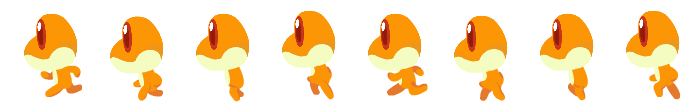
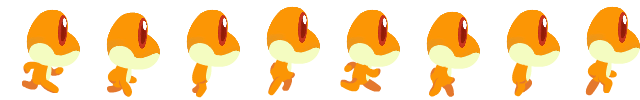
reset animation

diff --git a/js/collision.js b/js/collision.js
@@ -17,10 +17,10 @@ var Collision =  (function(){
 	}
 
 	var rect2circle = function(rect, circle){
-		if(rect.x + rect.w < circle.x) return false;
-		if(rect.x > circle.x + circle.r) return false;
-		if(rect.y + rect.h < circle.y) return false;
-		if(rect.y > circle.y + circle.r) return false;
+		if(rect.x + rect.w < circle.x - circle.r) return false;
+		if(rect.x 		   > circle.x + circle.r) return false;
+		if(rect.y + rect.h < circle.y - circle.r) return false;
+		if(rect.y          > circle.y + circle.r) return false;
 
 		return true;
 	}
@@ -32,6 +32,13 @@ var Collision =  (function(){
 			return false;
 
 		return true;
+	}
+
+	var rect2line = function(rect, line){
+		if(rect.x > line.x1 && rect.x > line.x2) return false;
+		if(rect.x + rect.w < line.x1 && rect.w < line.x2) return false;
+		if(rect.y > line.y1 && rect.y > line.y2) return false;
+		if(rect.y + rect.h < line.y1 && rect.y + rect.h < line.y2) return false;
 	}
 
 	var mPublic = {

diff --git a/js/game.js b/js/game.js
@@ -73,7 +73,7 @@ var game = (function(){
     runner = new Runner(); 
     runner.animation(IMAGES.guagua, 
       50, 200, 43, 50, 
-      86, 100, 
+      80, 100, 
       8, 
       FPS/10);
     runner.setGraviry(g); 
